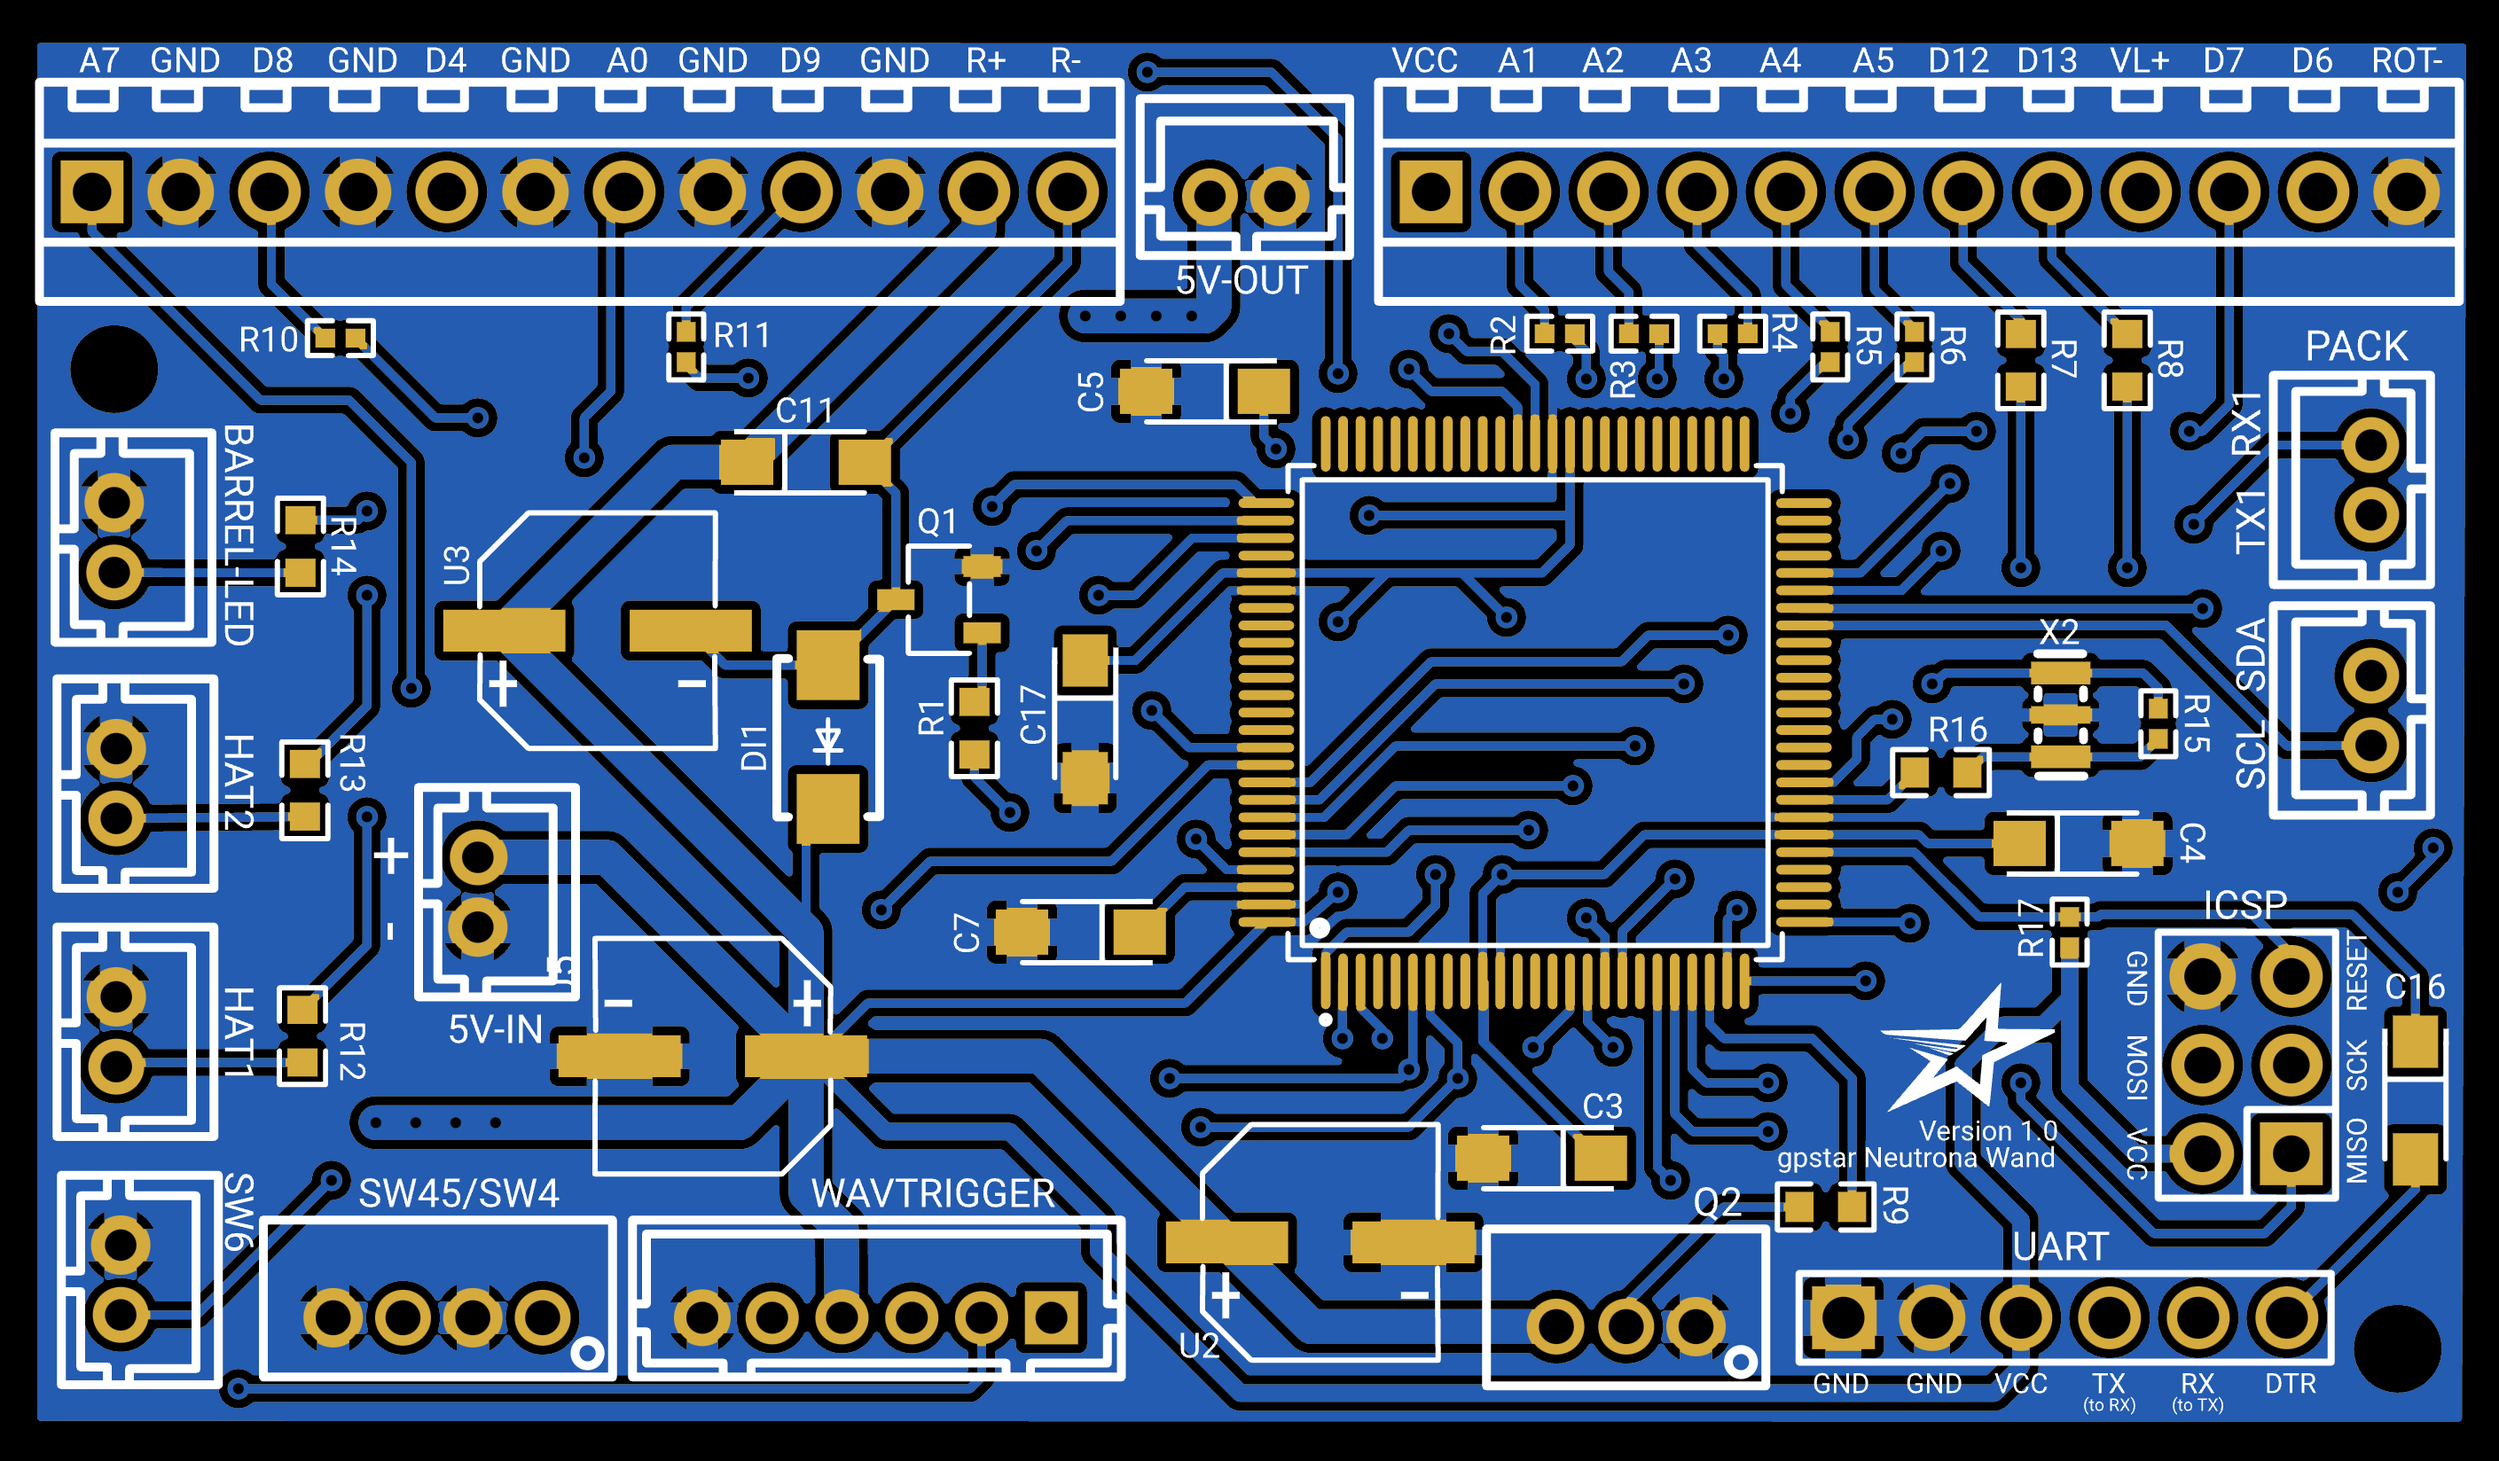
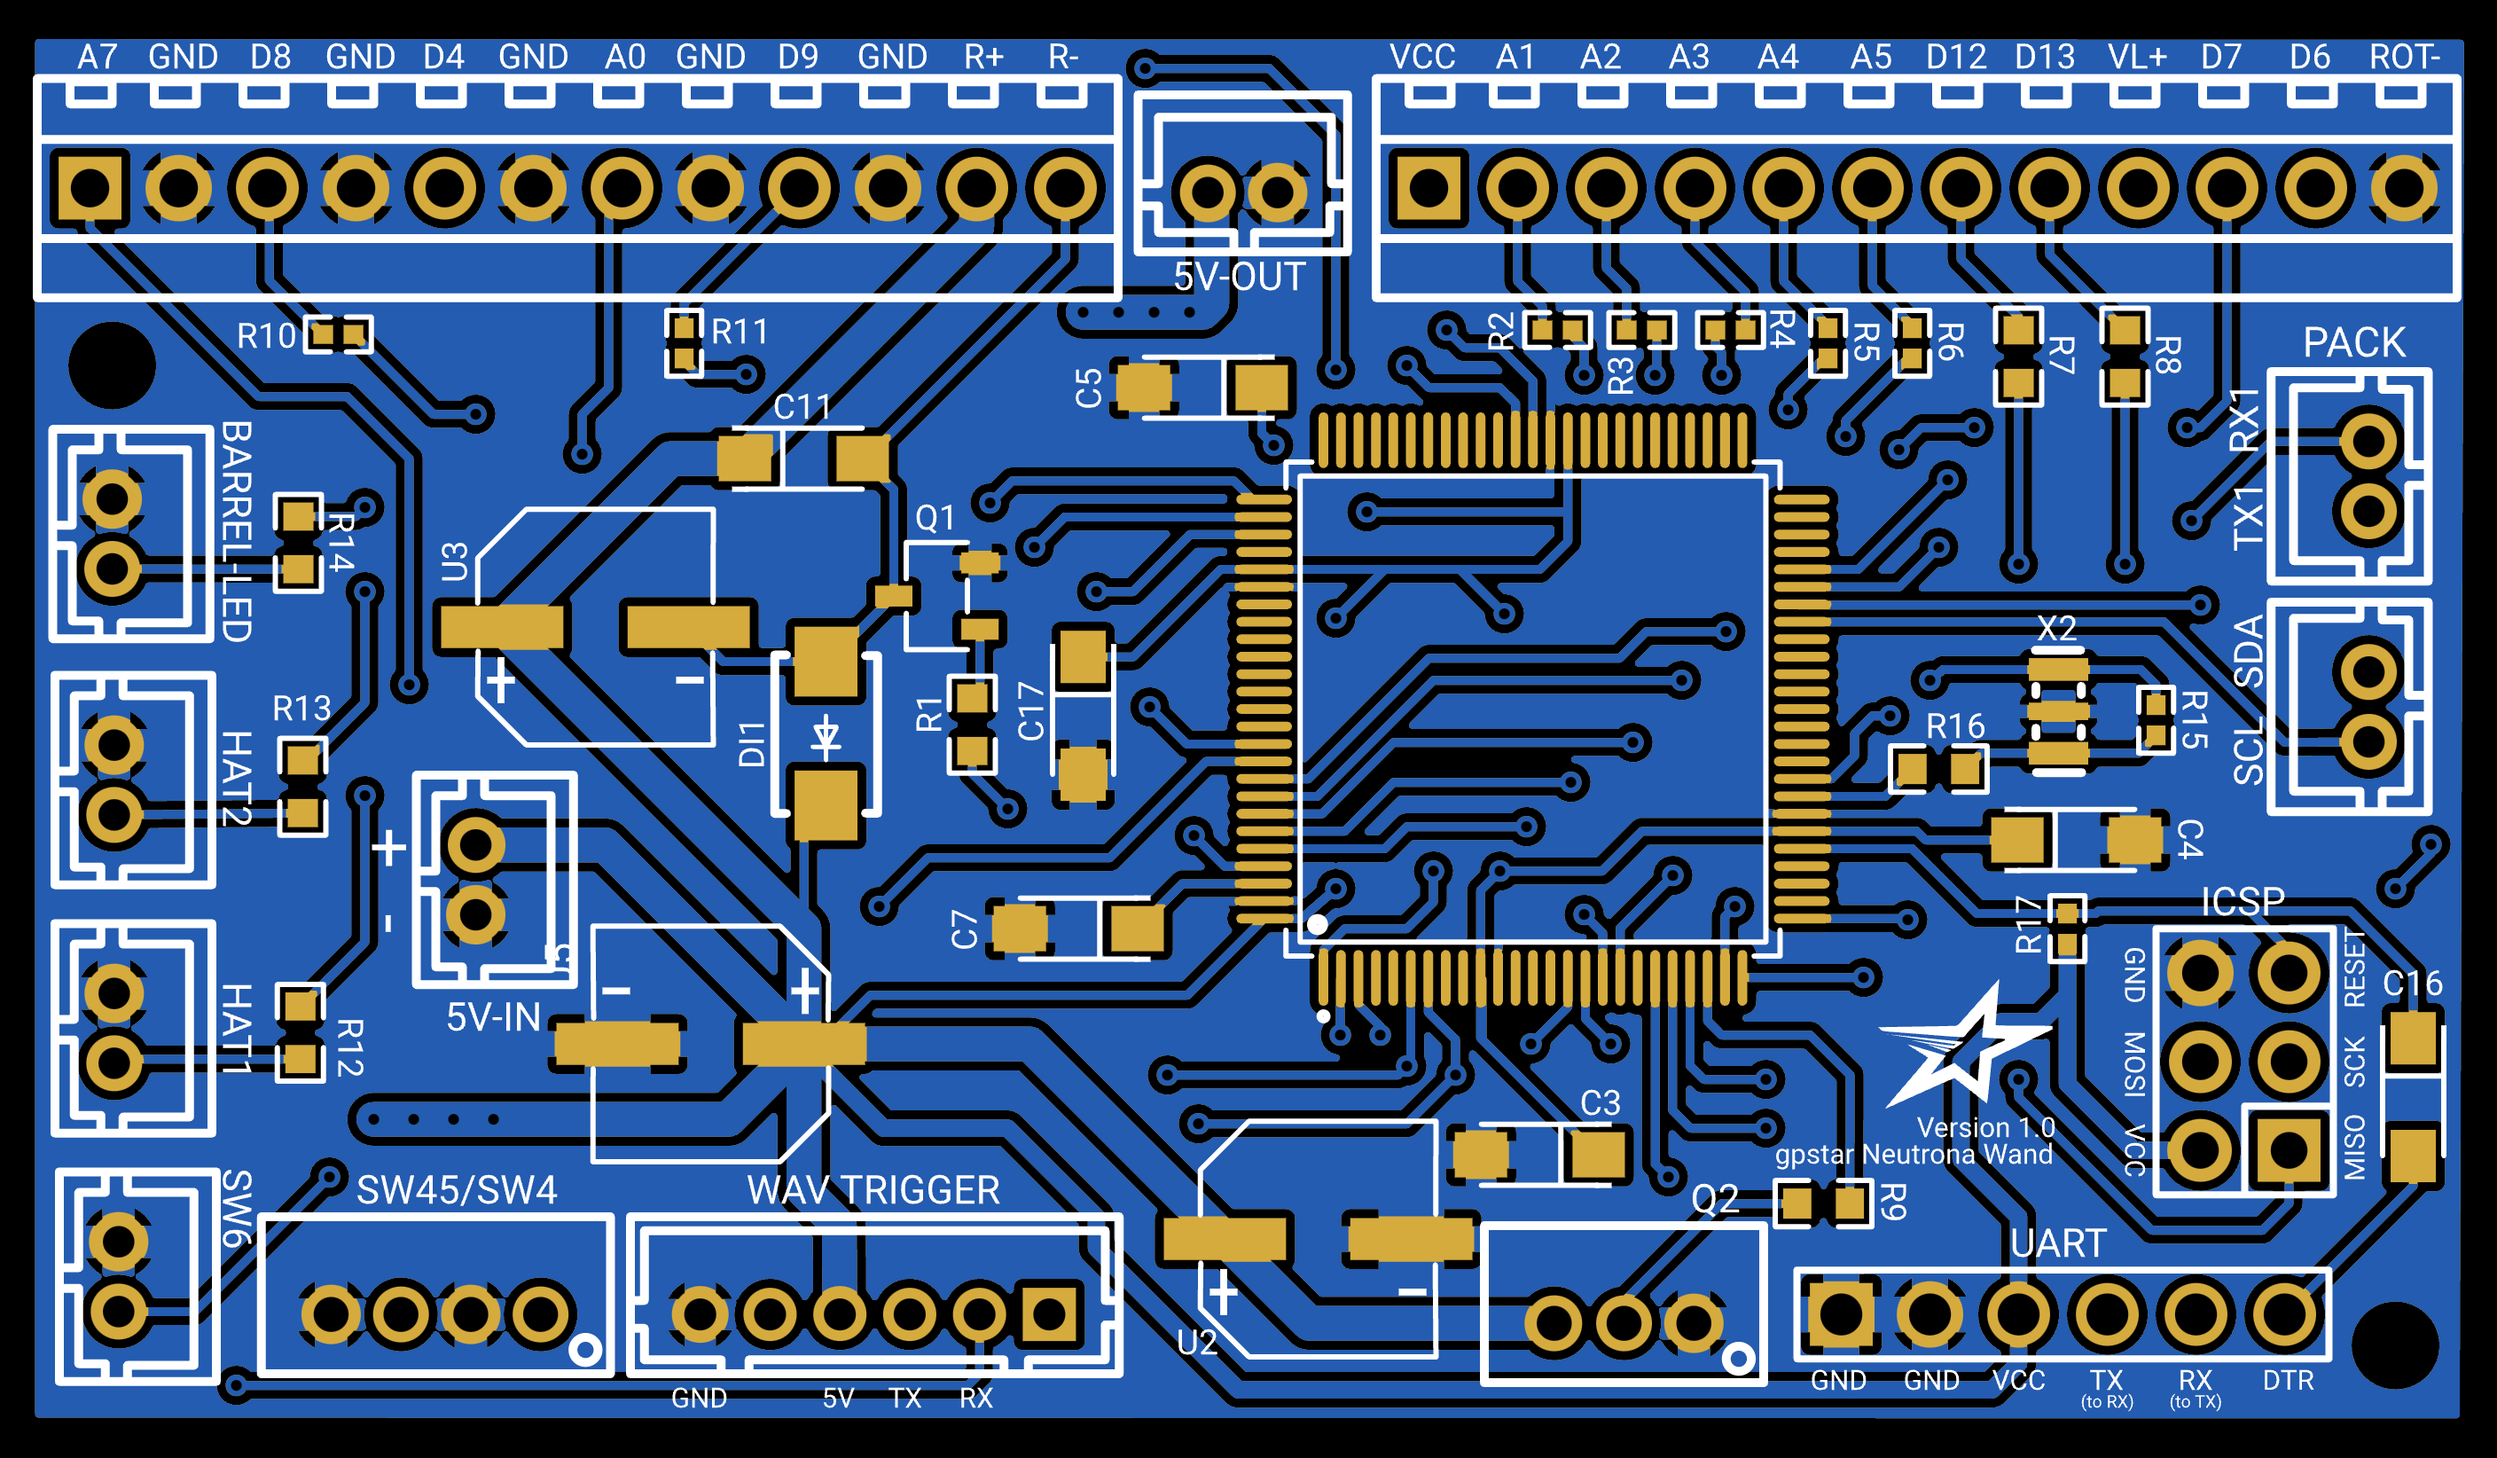
pcb update

Changed region(s): [[0.0, 0.0, 1.0, 0.9617], [0.9688, 0.5584, 1.0, 0.5894]]

diff --git a/PCB.md b/PCB.md
@@ -30,8 +30,7 @@ Connections for the pack should be made according to the table below.
 | P.GREEN | | Connection for 2x green LED's in cyclotron inner panel (optional) |
 | P.SWITCH | | Connection for 2x blue? LED's in cyclotron inner panel (optional) |
 | LED-W | | Connection for standalone white LED in N-Filter (optional) |
-| WT-5V | +/\- | Power for the pack's WavTrigger |
-| RX3/TX3 | | Communication for the pack's WavTrigger |
+| WAV TRIGGER | +/\- | Communication and Power for the pack's WavTrigger |
 | WAND 5V-OUT | +/\- | Power for the Neutrona Wand |
 | WAND RX2/TX2 | | Communication for the Neutrona Wand |
 | 5V-OUT | +/\- | Power for additional accessories (optional) |
@@ -51,8 +50,7 @@ Connections for the wand should be made according to the table below.
 |-------|------|-------|
 | 5V-IN | +/\- | Power from Proton Pack. **This MUST be a regulated 5V source!** |
 | TX1/RX1 | | Communication for the Proton Pack |
-| WT-5V | +/\- | Power for the wand's WavTrigger |
-| TX3/RX3 | | Communication for the wand's WavTrigger |
+| WAV TRIGGER | | Communication and Power for the wands's WavTrigger |
 | Q2 | | Stock connection for barrel LED's |
 | SW45/SW4 | | Stock connection for the Intensify button and Activate toggle |
 | SW6 | | Orange barrel-end mode/alt switch |
